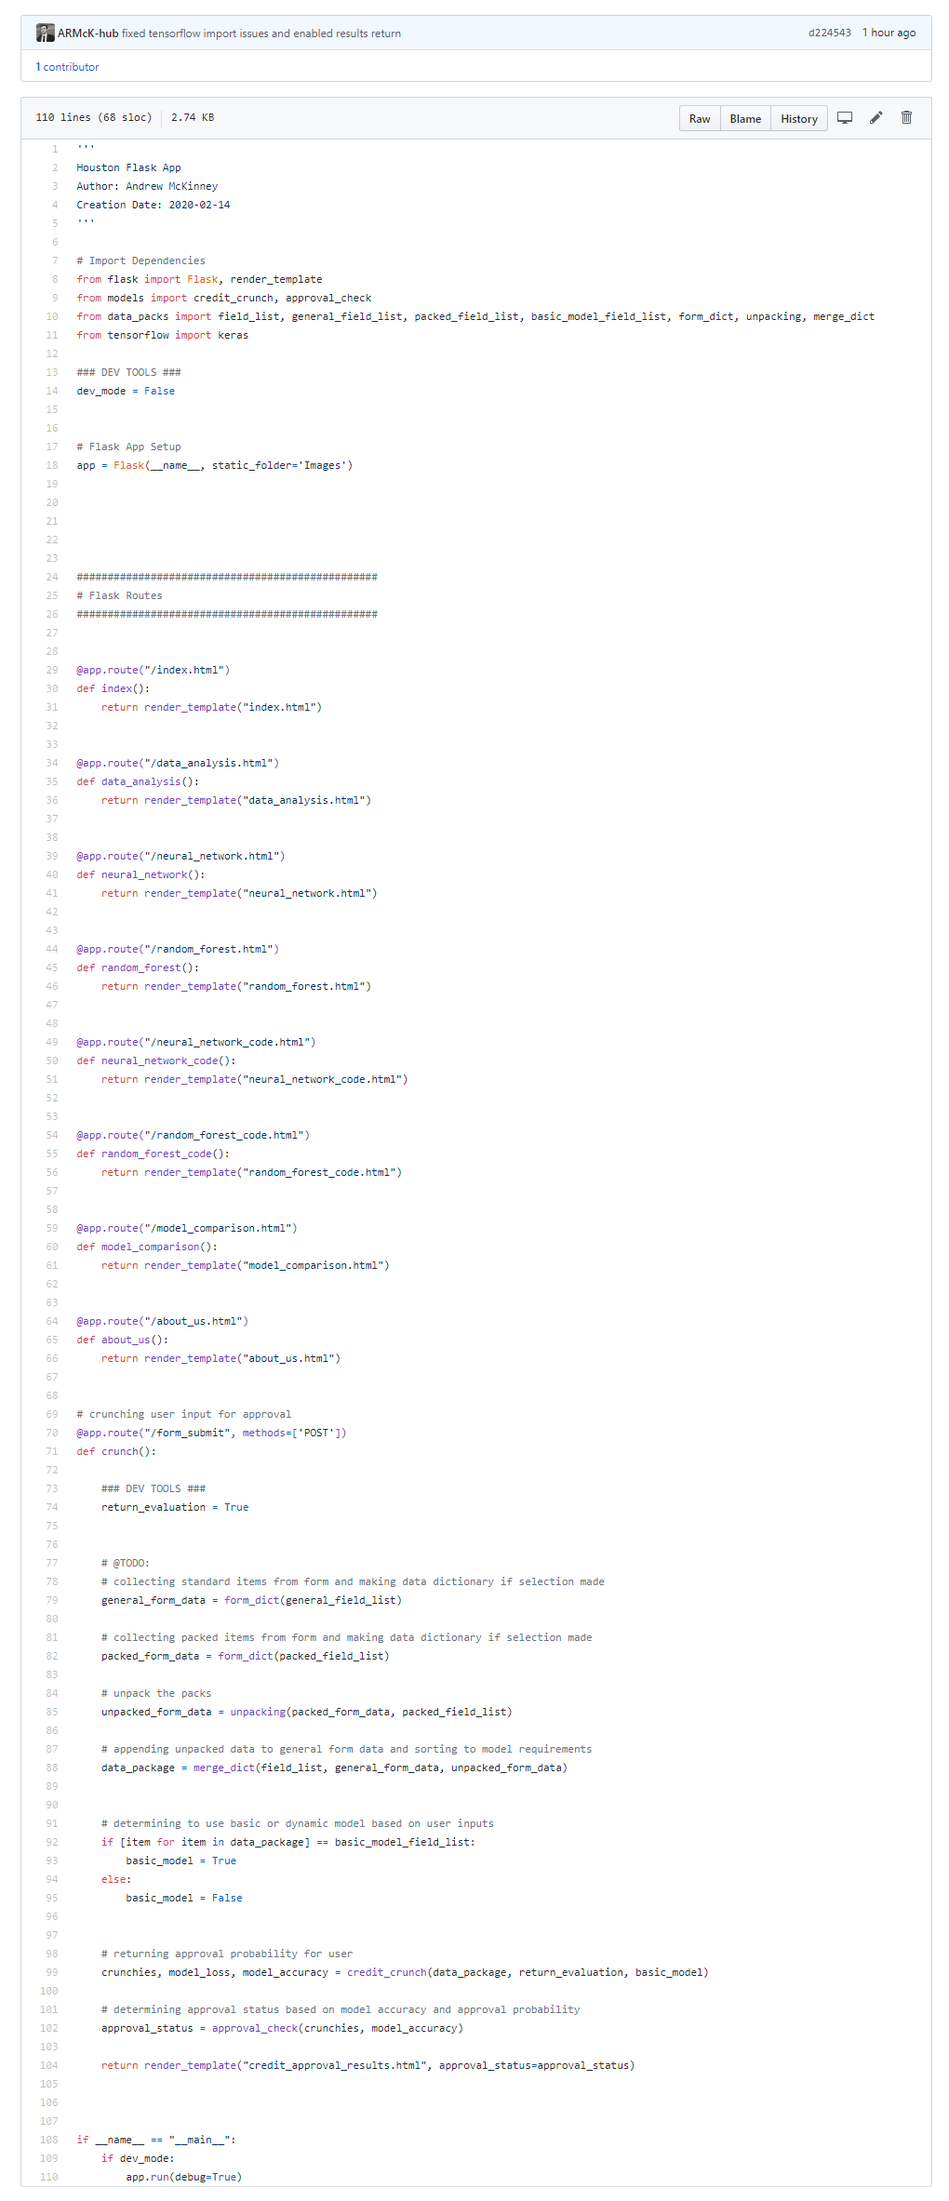
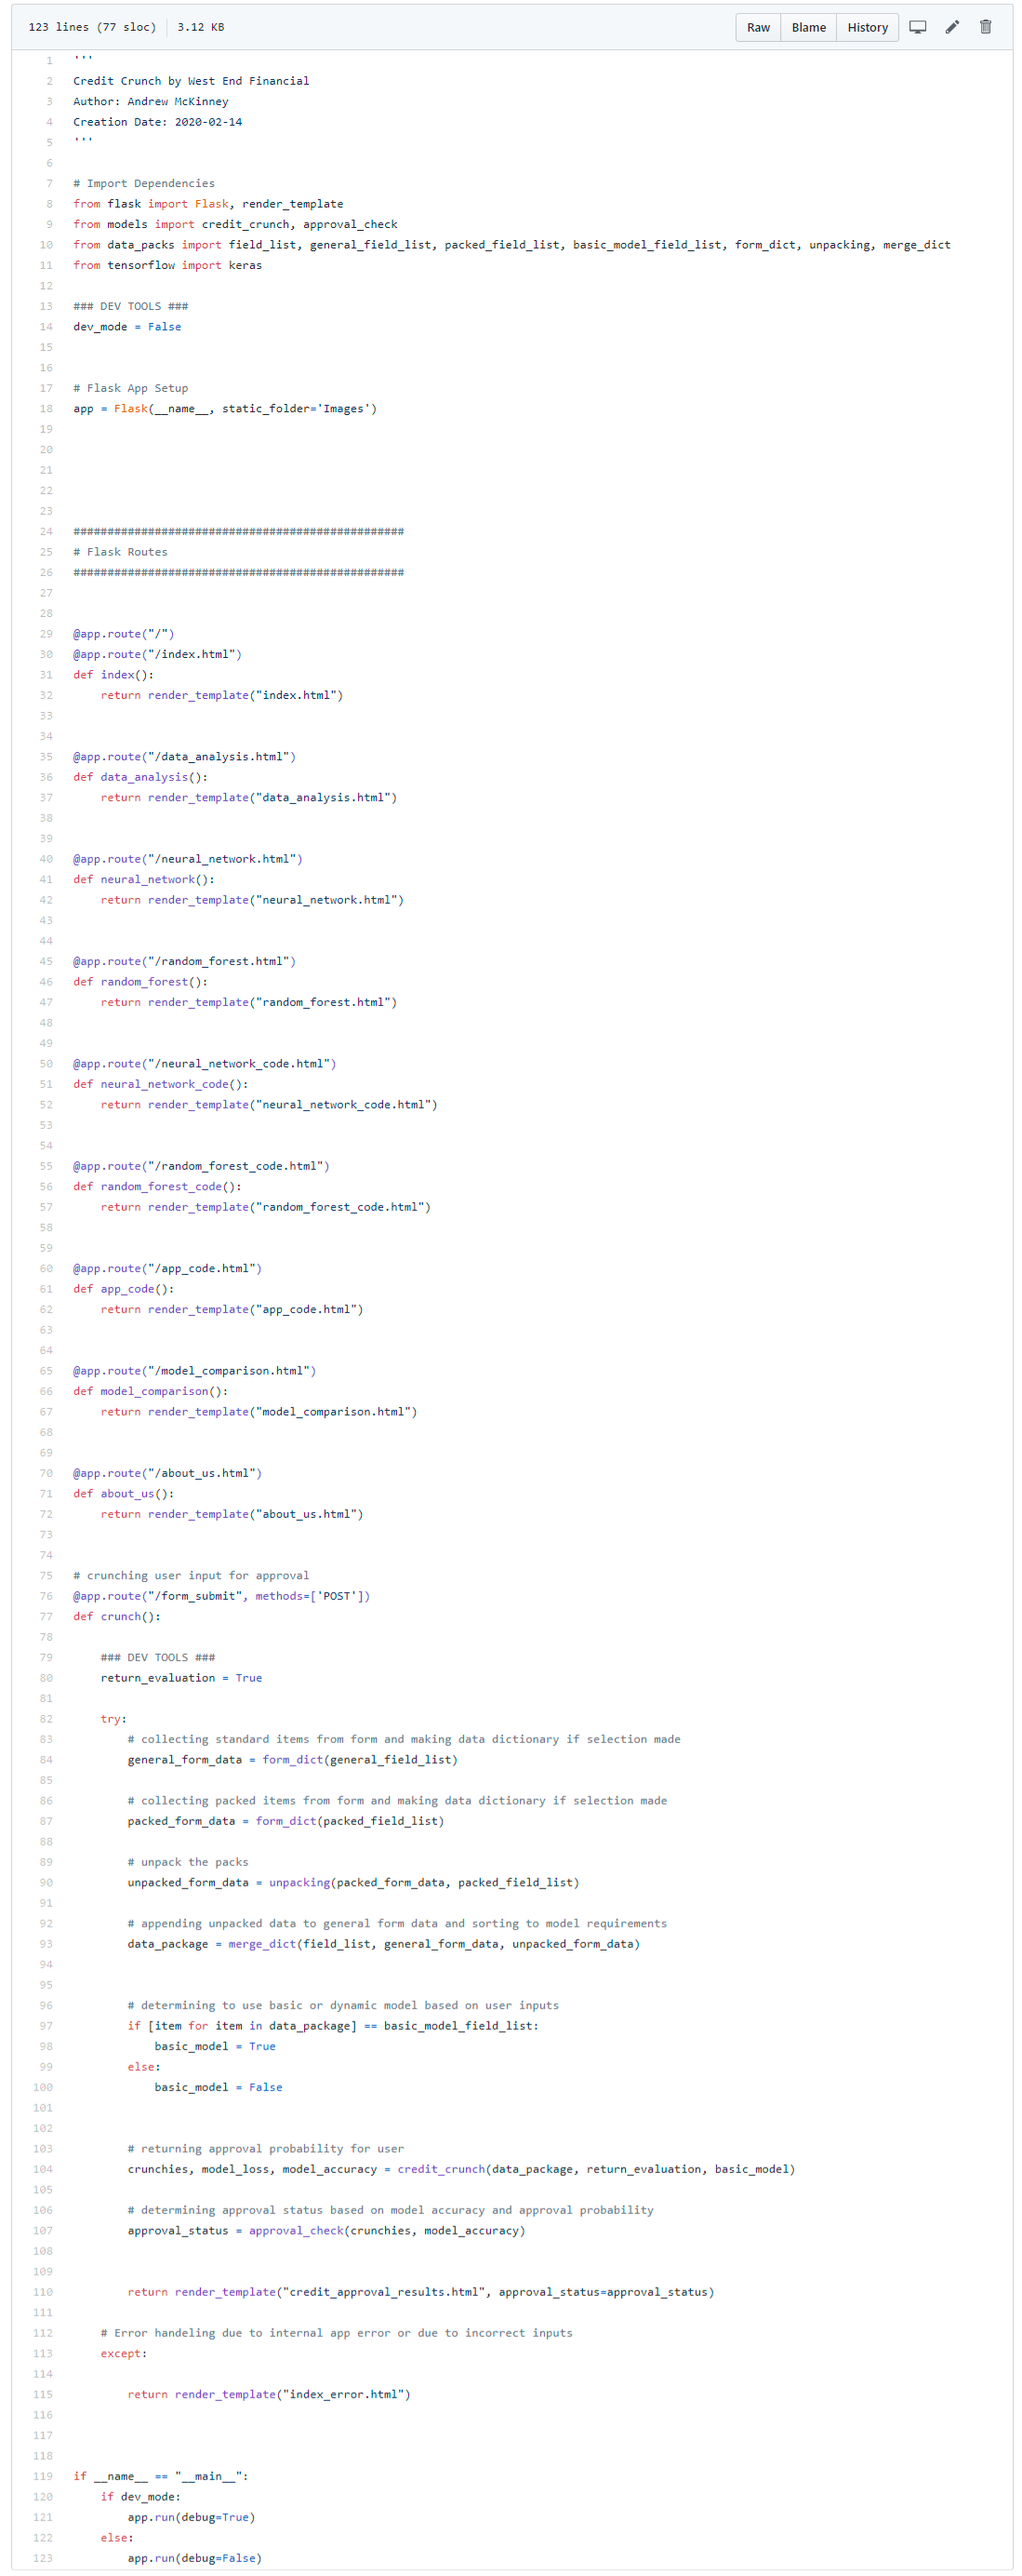
updated templates and App Code images

Changed region(s): [[0.0304, 0.0, 0.6382, 1.0], [0.7294, 0.0, 0.9725, 0.0617], [0.3647, 0.4628, 0.4255, 0.4937]]

diff --git a/templates/neural_network.html b/templates/neural_network.html
@@ -172,7 +172,7 @@
           <hr class="my-4">
         </div>
         <div class="single-post-content justify-content-left">
-        The Data Frame below shows the first 20 results of an Approval-Status For Loop that was applied to the test data to generate Importance Features.
+        The Data Frame below shows the first 20 results of an Approval-Status For Loop that was applied to the test data to generate Approval Status.
         <br><br>
         The For Loop function applied string values to each account in the test data and the results appear in the Approval_Status column.
         <br><br>

diff --git a/templates/index.html b/templates/index.html
@@ -83,7 +83,7 @@
     <nav class="navbar navbar-expand-md navbar-light bg-light sticky-top">
 
       <div class="container-fluid">
-        <a class="navbar-brand active" href="index.html">West End Financial</a>
+        <a class="navbar-brand active" href="index.html"></a>
         <button class="navbar-toggler" type="button" data-toggle="collapse" data-target="#navbarResponsive">
           <span class="navbar-toggler-icon"></span>
         </button>
